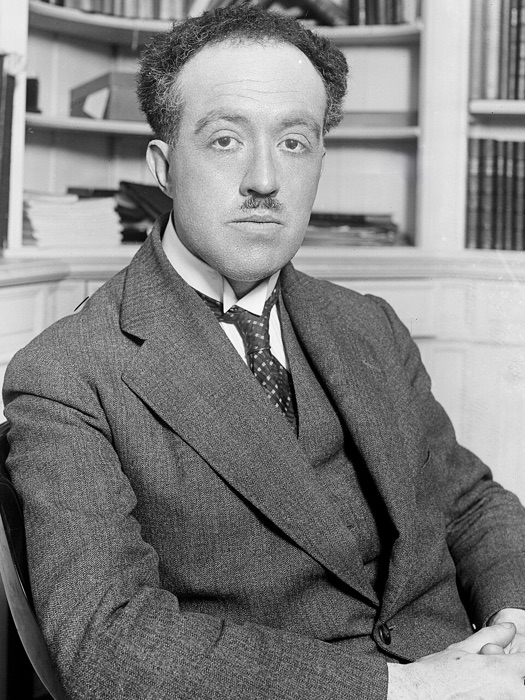
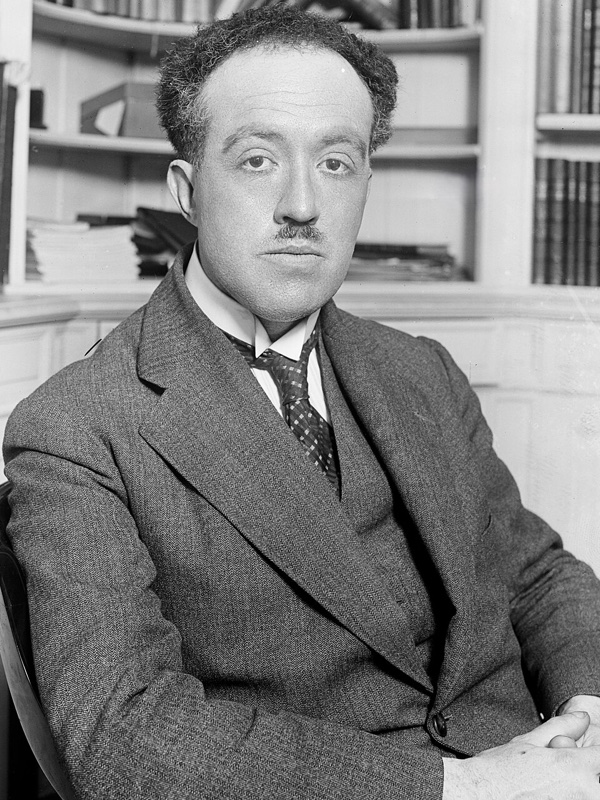
Tema 01: enlarge the margin portraits to full margin width
The portraits were at 0.75 of \marginparwidth (1.5 in), noticeably
smaller than the plot figures sharing the margin. At full width they
line up with those figures, so the margin reads as one column.

Re-fetched from Commons at 600 px wide so the larger print size still
lands at 300 dpi (Heisenberg stays at its 542 px original, 271 dpi).
CREDITOS.md updated with the new resolutions.

All six verified against the page renders: no clipping, no collisions
with sidenotes or captions, still 7 pages.

Claude-Session: https://claude.ai/code/session_01AcoMPDV4whCveNCuuWmYiD

diff --git a/tema01.tex b/tema01.tex
@@ -48,7 +48,7 @@ Tema 1: Antecedentes de la mecánica cuántica}
 % licencia y enlace a la ficha) está en figs/retratos/CREDITOS.md.
 \newcommand{\retrato}[2]{%
   \begin{marginfigure}
-    \includegraphics[width=0.75\linewidth]{#1}\par
+    \includegraphics[width=\linewidth]{#1}\par
     \vspace{0.4ex}{\footnotesize #2}
   \end{marginfigure}}
 

diff --git a/figs/retratos/CREDITOS.md b/figs/retratos/CREDITOS.md
@@ -5,7 +5,7 @@ público**: ninguno se acoge a uso legítimo (*fair use*) ni exige atribución,
 de modo que estos apuntes pueden compartirse y reutilizarse sin restricciones.
 Aun así, se acredita autoría y procedencia por buena práctica.
 
-La única modificación es un reescalado a 700 px de ancho respecto del original
+La única modificación es un reescalado a 600 px de ancho respecto del original
 de Commons. La columna «Commons» enlaza a la ficha del archivo, donde consta la
 licencia completa y el historial.
 
@@ -27,7 +27,7 @@ licencia completa y el historial.
 - **Autor:** Autor desconocido
 - **Fecha:** 1921
 - **Licencia:** Public domain
-- **Resolución:** 520x700 px (original en Commons: 800x1077 px)
+- **Resolución:** 600x807 px (original en Commons: 800x1077 px)
 
 ### Max Planck — `retrato_planck_v1.jpg`
 
@@ -36,7 +36,7 @@ licencia completa y el historial.
 - **Autor:** Hugo Erfurth
 - **Fecha:** 1938
 - **Licencia:** Public domain
-- **Resolución:** 553x700 px (original en Commons: 2544x3216 px)
+- **Resolución:** 600x758 px (original en Commons: 2544x3216 px)
 
 ### Albert Einstein — `retrato_einstein_v1.jpg`
 
@@ -45,7 +45,7 @@ licencia completa y el historial.
 - **Autor:** Lucien Chavan (ETH-Bibliothek Zürich)
 - **Fecha:** 1905
 - **Licencia:** Public domain
-- **Resolución:** 486x700 px (original en Commons: 8206x11811 px)
+- **Resolución:** 600x863 px (original en Commons: 8206x11811 px)
 
 ### Louis de Broglie — `retrato_debroglie_v1.jpg`
 
@@ -54,7 +54,7 @@ licencia completa y el historial.
 - **Autor:** Agence Rol
 - **Fecha:** 1929
 - **Licencia:** Public domain
-- **Resolución:** 525x700 px (original en Commons: 4502x6002 px)
+- **Resolución:** 600x800 px (original en Commons: 4502x6002 px)
 
 ### Werner Heisenberg — `retrato_heisenberg_v1.jpg`
 
@@ -72,5 +72,5 @@ licencia completa y el historial.
 - **Autor:** AB Lagrelius & Westphal (Fundación Nobel)
 - **Fecha:** hacia 1922
 - **Licencia:** Public domain
-- **Resolución:** 497x700 px (original en Commons: 1456x2048 px)
+- **Resolución:** 600x843 px (original en Commons: 1456x2048 px)
 
